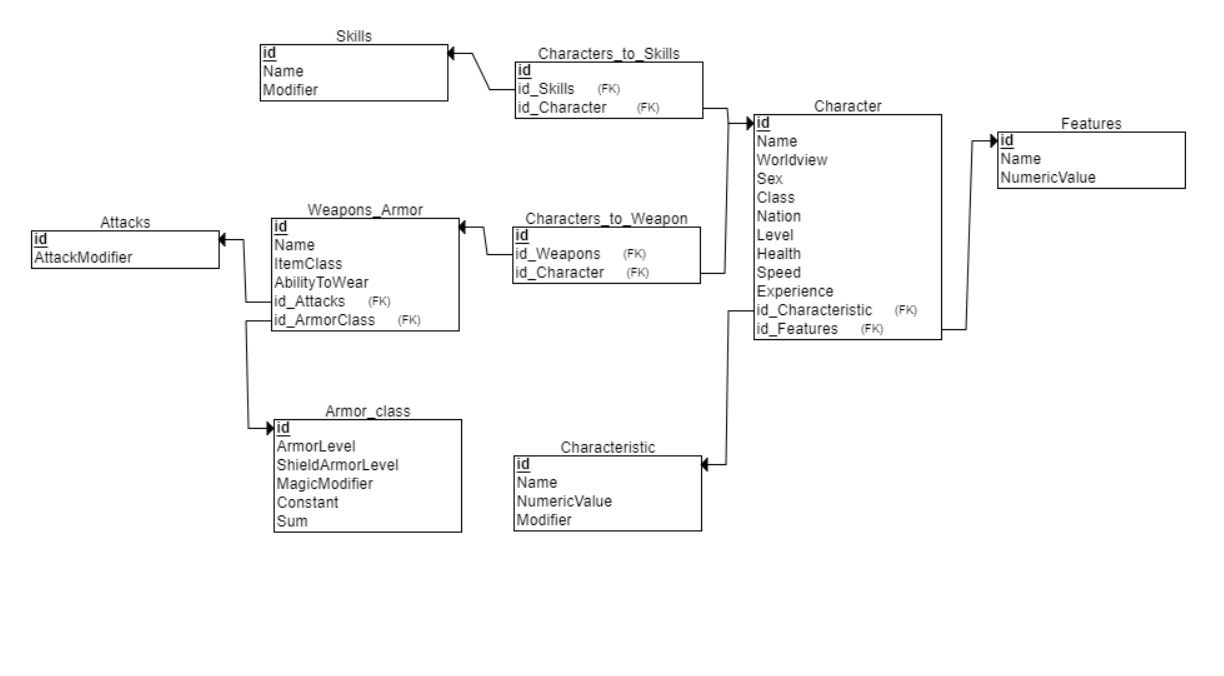
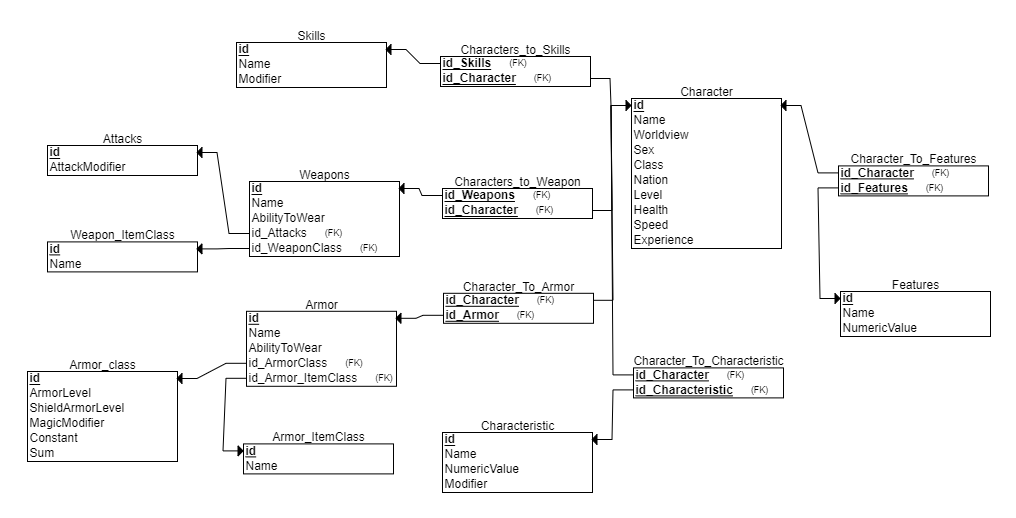
изменил реляционные схемы

diff --git a/README.md b/README.md
@@ -82,24 +82,25 @@ PostgreSQL, Oracle SQL, MongoDB
 * Константа(число)
 * Общий показатель - сумма (число)
 
-8) Особенности
+8) Класс оружия
+* Название
+
+9) Класс предмета брони
+* Название
+
+10) Особенности
 * Название(строка)
 * Значение особенности(число)
 
 
 # Сущности базы данных, хранящая информацию о игровых обьектах
 
-1) Простое оружие
+1) Снаряжение
 * Название(строка)
-* Дистанция атаки(строка)
 * Цена(число)
-* Хват(строка)
-* Тип(Строка)
-* Урон(строка)
-* Критический удар(строка)
 
-2) Особое оружие
-* Название(строка)
+
+2) Оружие
 * Дистанция атаки(строка)
 * Цена(число)
 * Хват(строка)
@@ -111,36 +112,36 @@ PostgreSQL, Oracle SQL, MongoDB
 3) Метательное оружие
 * Название(строка)
 * Дистанция атаки(строка)
-* Цена(число)
-* Тип(Строка)
 * Урон(строка)
 * Критический удар(строка)
 
-4) Расходные материалы
-* Название(строка)
+4) Тип оружия
+* Специальное
+* Простое
+* Метательное
+
+5) Расходные материалы
 * Описание(строка)
 * Количество(число)
 
-5) Броня 
-* Название(строка)
-* Цена(Число)
+6) Броня 
 * Уровень брони(число)
 
-6) Тип брони
+7) Тип брони
 * Название(строка)
 
 
-7) Снаряды
-*  Название(строка)
+8) Снаряды
+* Название(строка)
 * Цена(Число)
 * Количество(число)
 
-8) Событие
+9) Событие
 * Название(строка)
 * Описание(строка)
 * Награда(строка)
 
-9) Противники  
+10) Противники  
 * Название(строка)
 * Инициатива(число)
 * Здоровье(число)
@@ -151,7 +152,7 @@ PostgreSQL, Oracle SQL, MongoDB
 * Значение модификатора(число)
 * Опыт(число)
 
-10) Ловушки
+11) Ловушки
 * Тип(строка)
 * Условие срабатывания(строка)
 * Перезарядка(строка)
